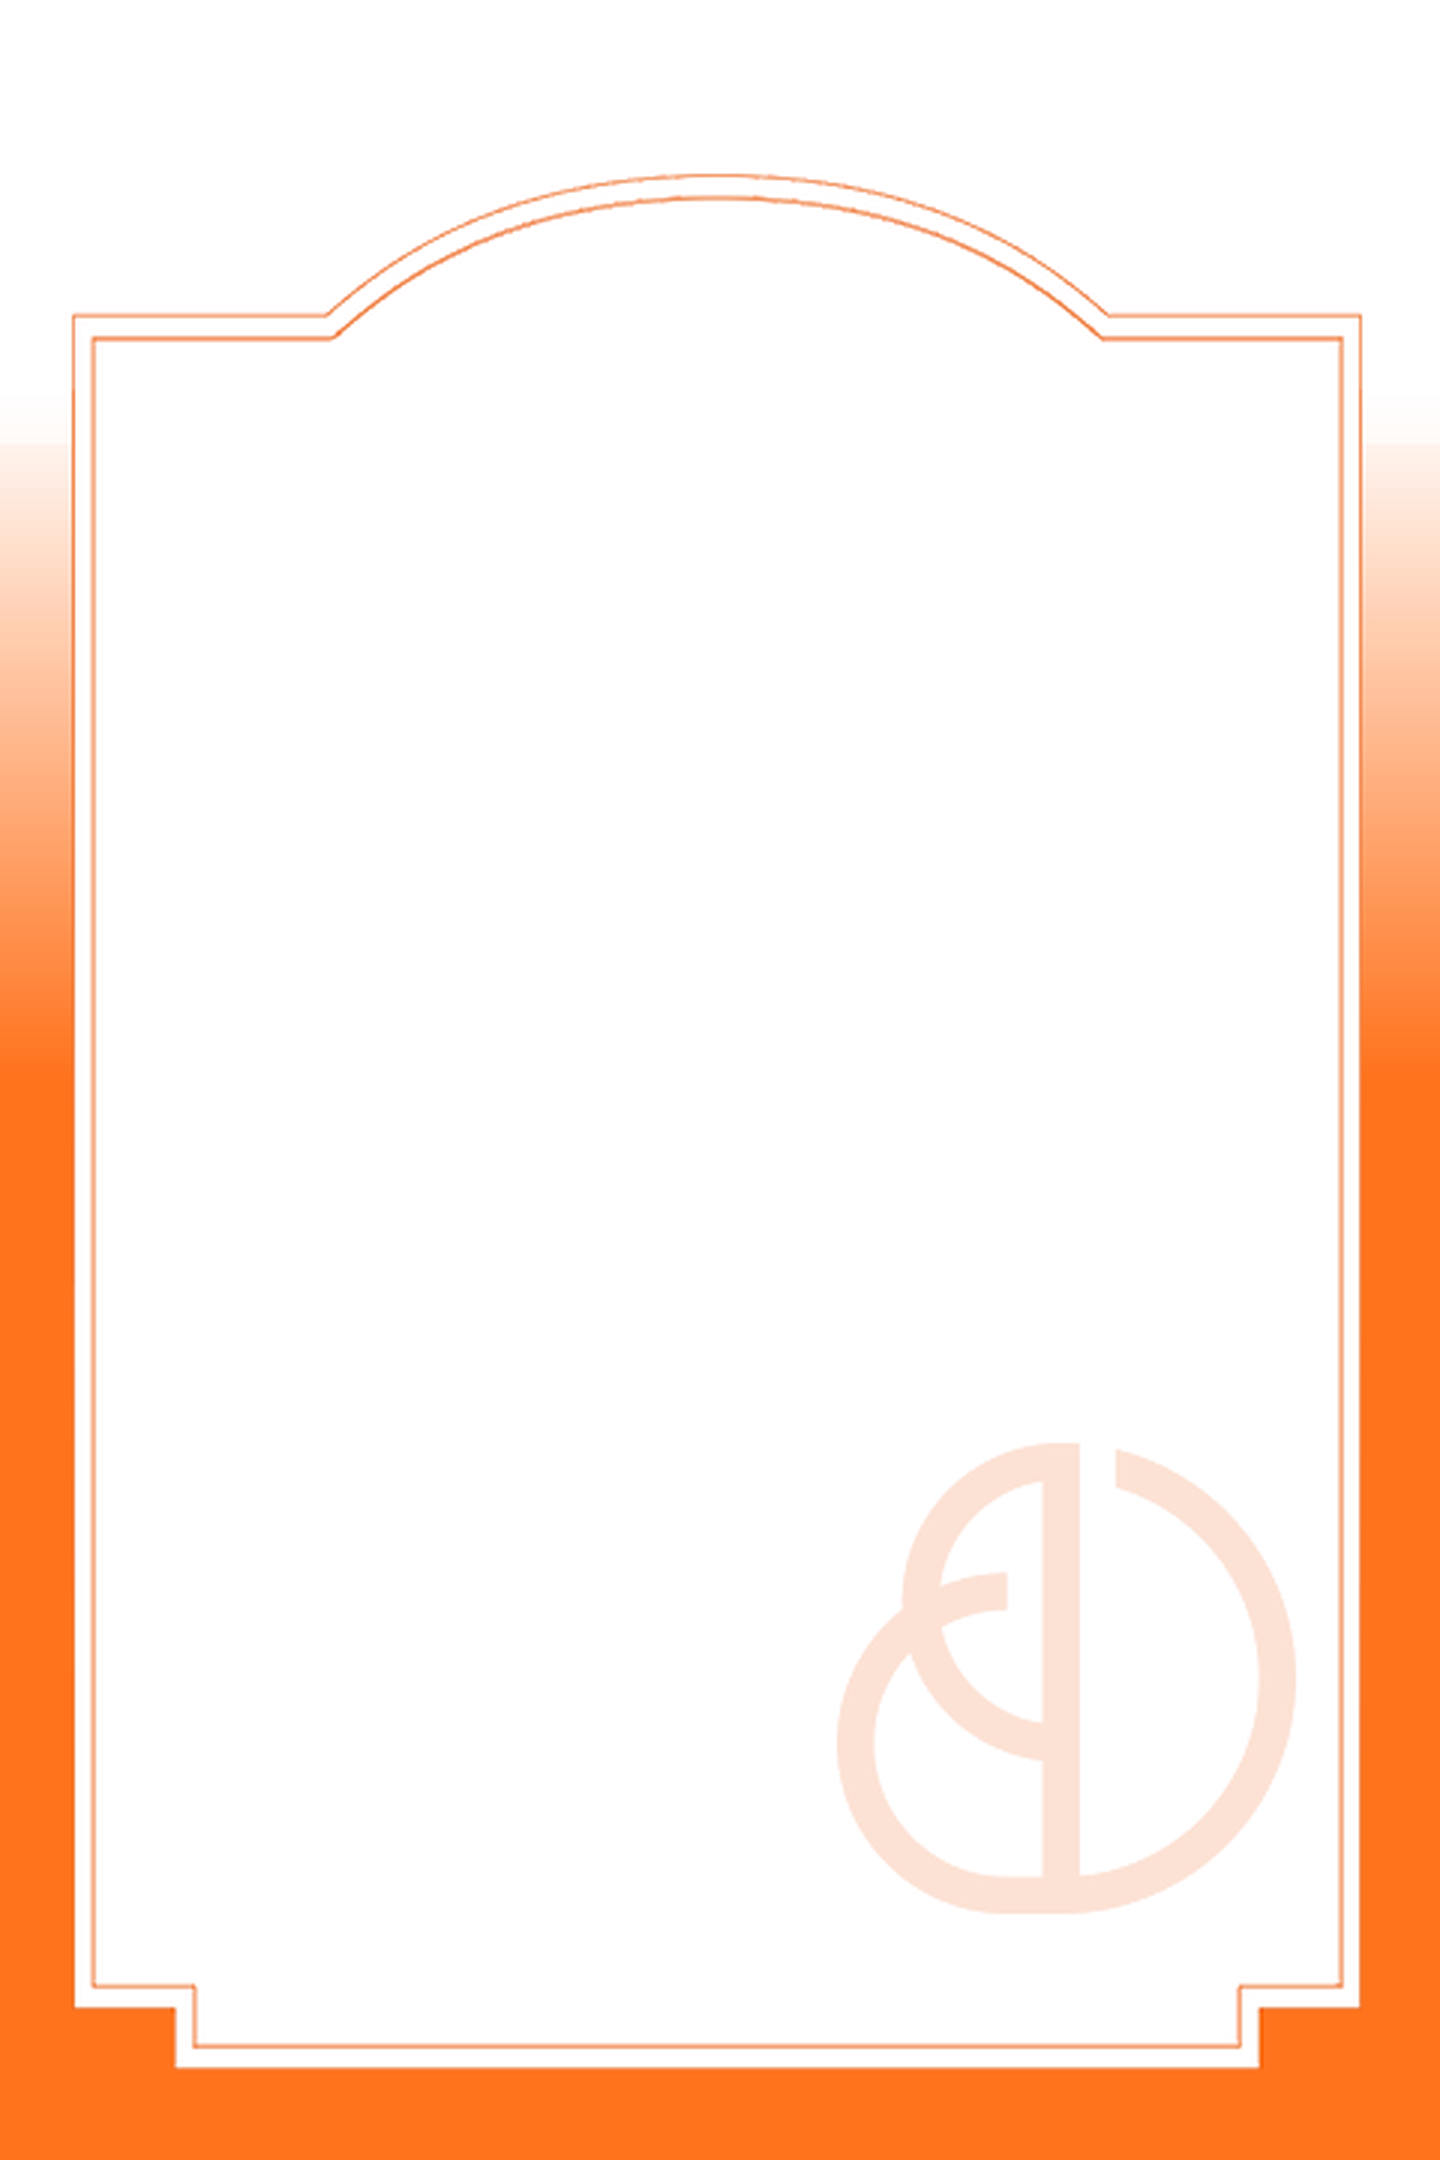
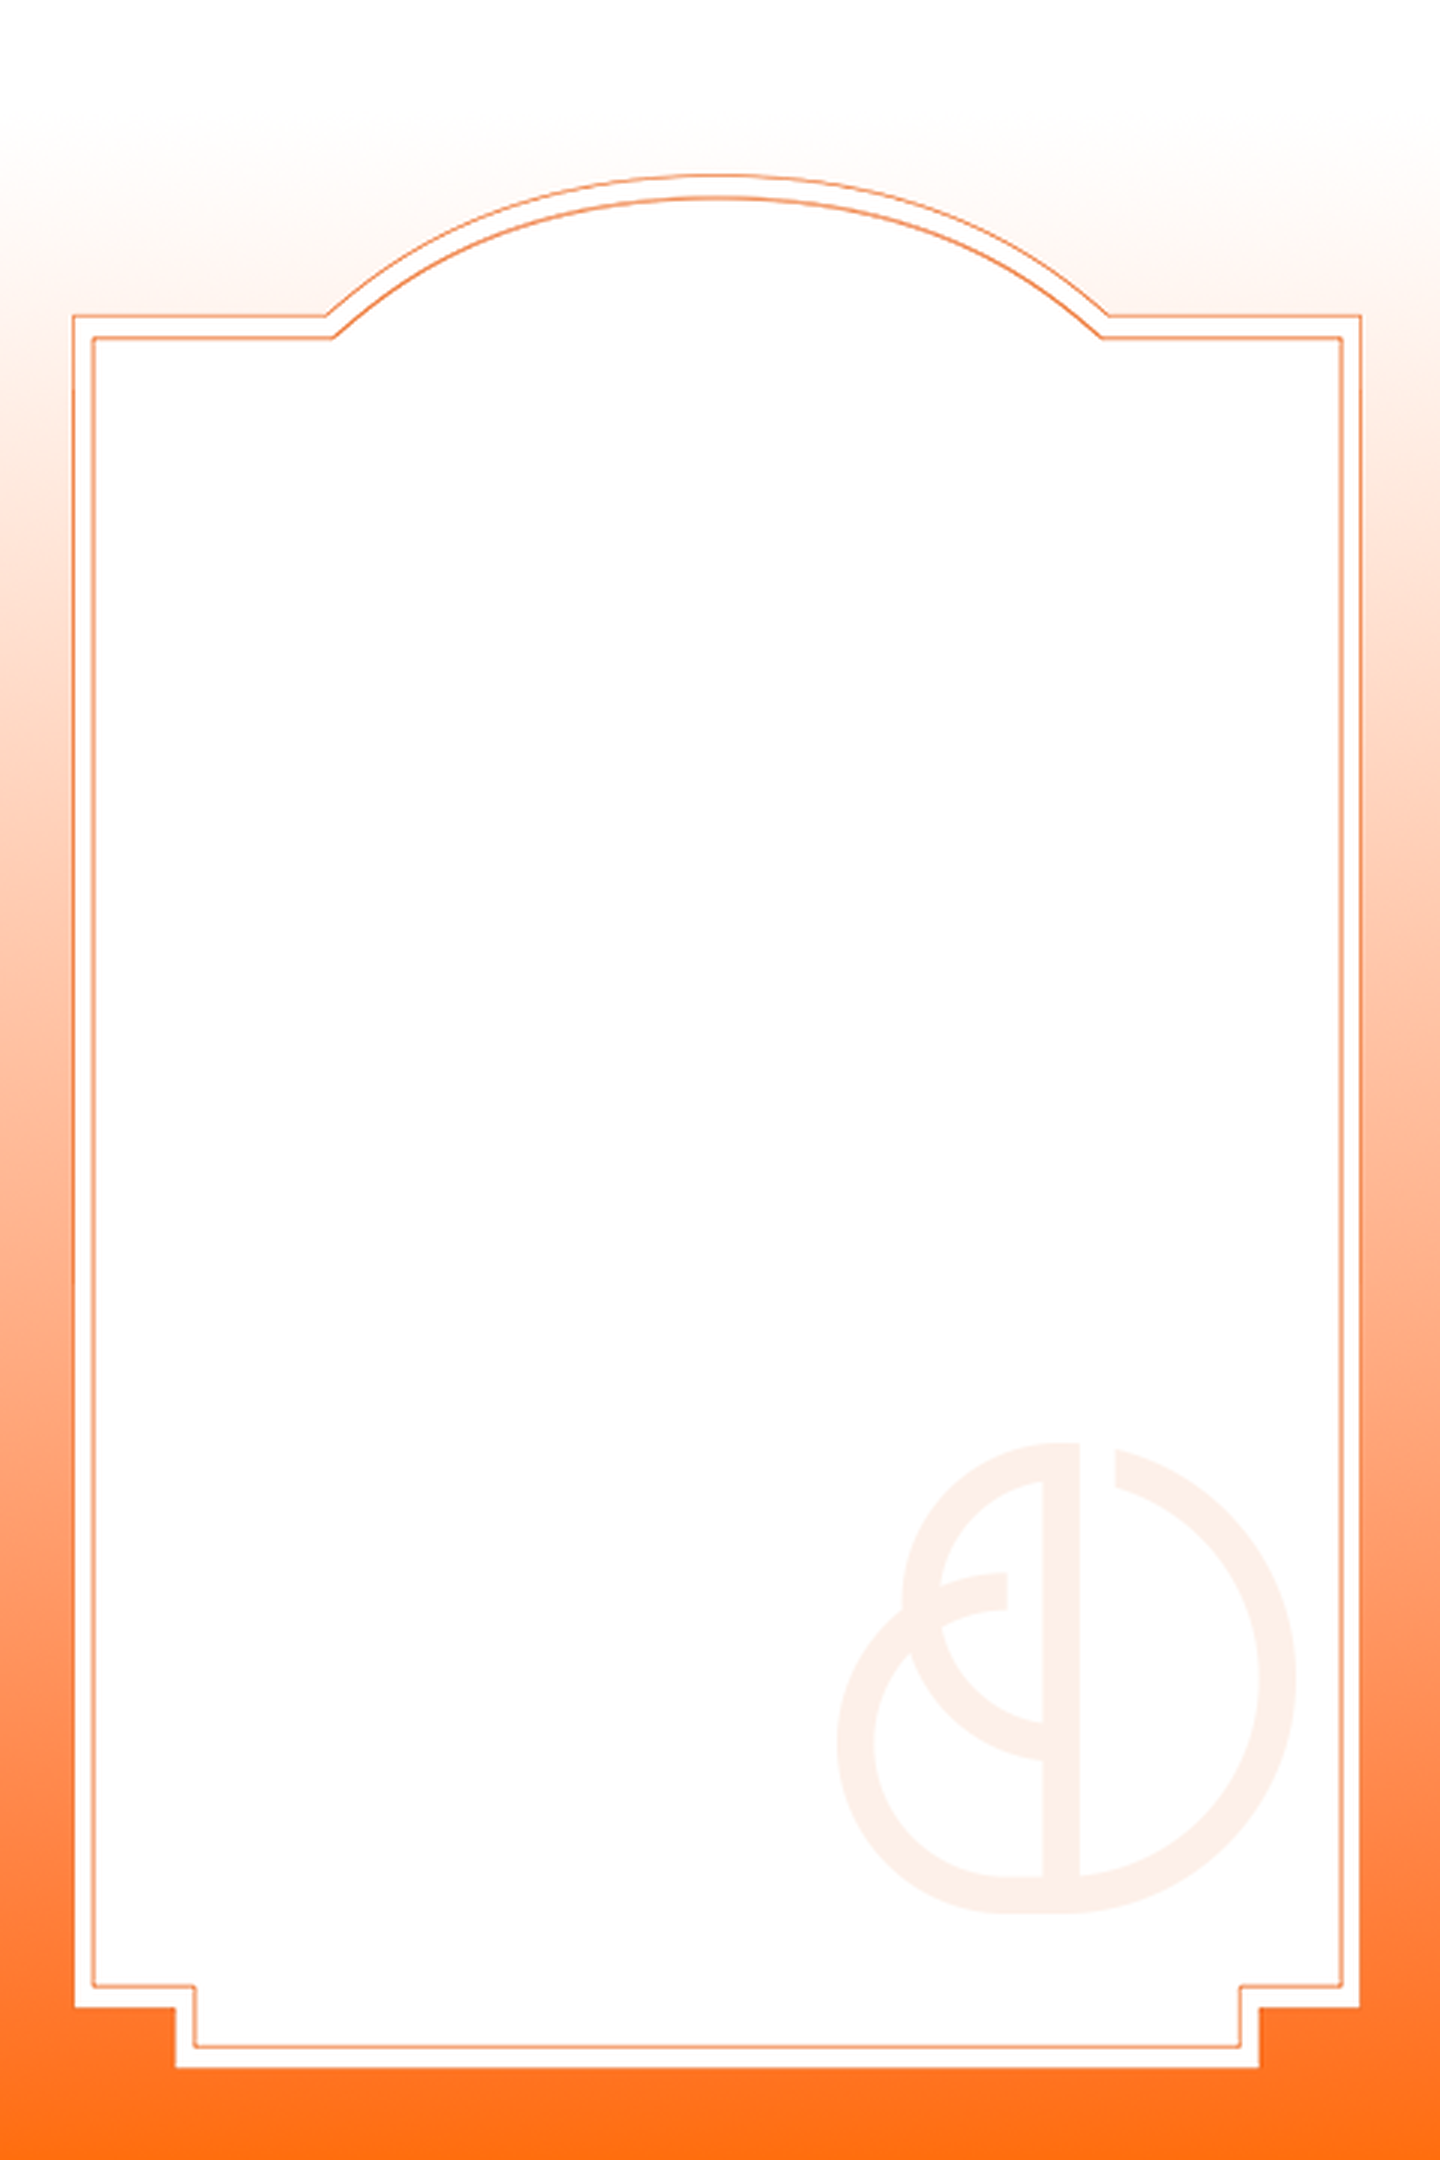
새 배경 3종(A4/MO/PC) 교체 + 로고 오버레이화 + 인스타 제외
- 사용자 제공 새 배경(깨끗한 프레임+그라데이션+워터마크)으로 A4/MO/PC 교체
  (A4 2480x3508, MO 1440x2160, PC 2400x1440로 업스케일)
- A4 로고를 baked→선명 오버레이로 전환(MO/PC와 동일 방식)
- 인스타 사이즈 옵션 제거(OUTPUT_SIZES/OutputSize/SPECS/에셋)

Claude-Session: https://claude.ai/code/session_01KZF4ihkVbwkEzVchkr5nFz

Changed region(s): [[0.9375, 0.2792, 1.0, 0.9306], [0.0, 0.2792, 0.0625, 0.9306]]

diff --git a/src/components/notice/NoticePoster.tsx b/src/components/notice/NoticePoster.tsx
@@ -1,6 +1,5 @@
 import { CSSProperties, useEffect, useState } from "react";
 import bgA4 from "@/assets/notice/bg-a4.png";
-import bgInsta from "@/assets/notice/bg-insta.png";
 import bgMo from "@/assets/notice/bg-mo.png";
 import bgPc from "@/assets/notice/bg-pc.png";
 import logoDb from "@/assets/notice/logo-db.png";
@@ -76,20 +75,7 @@ const SPECS: Record<OutputSize, VariantSpec> = {
     bottom: { l: 0.108, t: 0.75, w: 0.784, h: 0.16, pillFont: 0.014, dateFont: 0.015, timeFont: 0.013 },
     subtitle: { right: 0.855, top: 0.253, font: 0.0162, lineHeight: 1.55, align: "right" },
     divider: { x0: 0.108, x1: 0.892, y: 0.4025, thick: 0.0014 },
-  },
-  insta: {
-    bg: bgInsta,
-    header: false,
-    octFont: 0.066,
-    notFont: 0.062,
-    titleL: 0.147, titleRight: 0.57,
-    octT: 0.212,
-    notT: 0.298,
-    month: { l: 0.612, t: 0.216, font: 0.033 },
-    cal: { l: 0.12, t: 0.505, w: 0.76, wdFont: 0.018, dateFont: 0.038, circle: 0.094, rowGap: 0.016, labelFont: 0.014 },
-    bottom: { l: 0.121, t: 0.77, w: 0.758, h: 0.14, pillFont: 0.015, dateFont: 0.016, timeFont: 0.014 },
-    subtitle: { right: 0.858, top: 0.272, font: 0.0195, lineHeight: 1.55, align: "right" },
-    divider: { x0: 0.124, x1: 0.876, y: 0.415, thick: 0.0015 },
+    logo: { left: 0.036, top: 0.03, width: 0.3 },
   },
   mo: {
     bg: bgMo,

diff --git a/src/lib/notice/types.ts b/src/lib/notice/types.ts
@@ -17,11 +17,10 @@ export type StatusConfig = {
   endTime: string; // "19:00"
 };
 
-export type OutputSize = "a4" | "insta" | "mo" | "pc";
+export type OutputSize = "a4" | "mo" | "pc";
 
 export const OUTPUT_SIZES: { id: OutputSize; label: string; w: number; h: number; fmt: "jpg" | "png" }[] = [
   { id: "a4", label: "A4", w: 2480, h: 3508, fmt: "jpg" }, // 출력용(고용량 방지 JPG)
-  { id: "insta", label: "인스타", w: 1080, h: 1350, fmt: "png" },
   { id: "mo", label: "팝업 MO", w: 480, h: 720, fmt: "png" },
   { id: "pc", label: "팝업 PC", w: 1200, h: 720, fmt: "png" },
 ];

diff --git a/src/App.tsx b/src/App.tsx
@@ -124,7 +124,7 @@ export default function App() {
         if (!node) continue;
         const size = OUTPUT_SIZES.find((s) => s.id === sz)!;
         // 팝업(PNG)은 작아서 화질 저하 → 고해상도로 렌더(MO는 특히 작아 3배).
-        const ratioMap: Record<string, number> = { a4: 1, insta: 2, pc: 2, mo: 3 };
+        const ratioMap: Record<string, number> = { a4: 1, pc: 2, mo: 3 };
         const common = { width: size.w, height: size.h, pixelRatio: ratioMap[sz] ?? 1, cacheBust: true };
         const dataUrl =
           size.fmt === "jpg"
